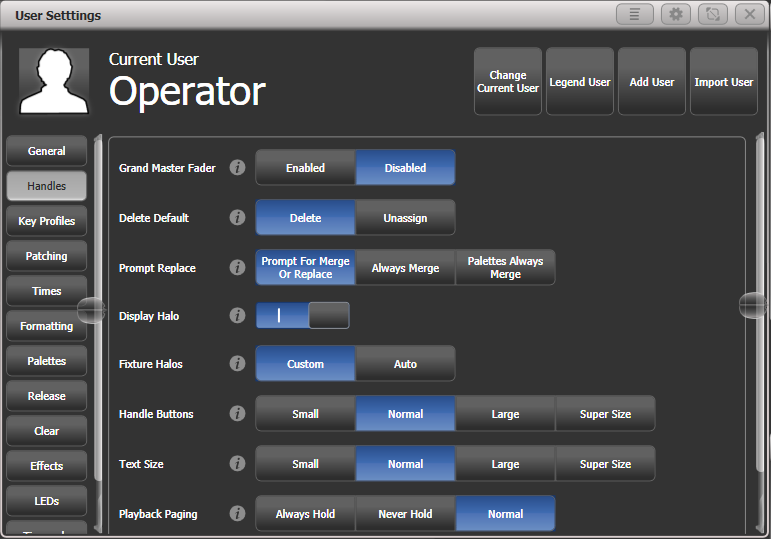
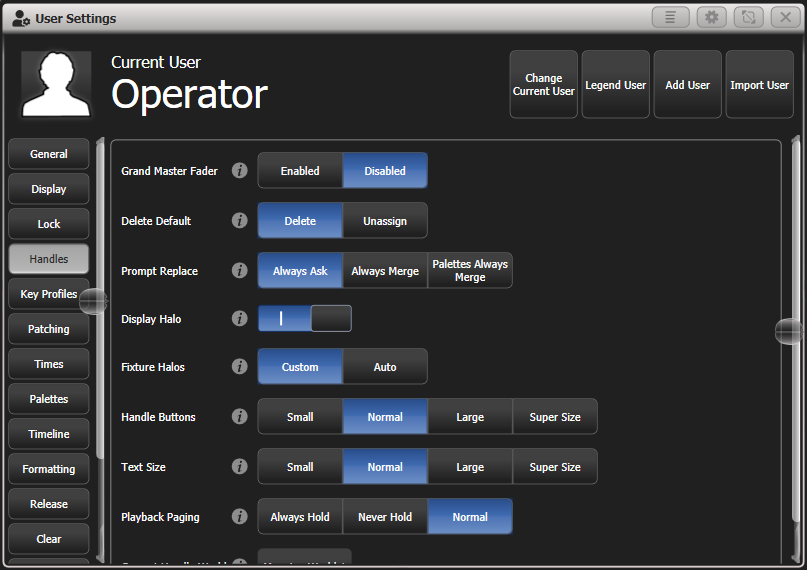
Update user settings to current

diff --git a/docs/system-settings/user-settings.md b/docs/system-settings/user-settings.md
@@ -40,9 +40,22 @@ System Render Rate (Hz) | Sets the output rate of DMX frames from 1-44 frames pe
 ---|------
 External Display                    | ***On:*** External display is enabled <br/> *Off:* External display is disabled.
 External Screen Workspace Shortcuts | ***On:*** Each screen has its own Workspace Shortcut buttons (shown down the side of the screen on external screens). This allows you to recall different window layouts separately on each screen rather than changing all screens. <br/>*Off:* The Workspace buttons on the main screen control all screens.
-Lock Screen Background              | Sets a picture to be displayed when the console is locked.
+Virtual Hardware                    | ***Auto:*** Titan Go will automatically hide the virtual control buttons if a Titan Mobile is connected <br/> *Enabled:* The virtual control buttons are always shown <br/> *Disabled:* The virtual control buttons are always hidden.
+Fullscreen Mode                     | *On:* The Titan Go application will be displayed fullscreen <br/> ***Off:*** The Titan Go application will be displayed in a window.
 
 -  These options can also be set from **System** menu, in the **Display Setup** option.
+-  You can also press F11 to change the Titan Go application to full screen display.
+
+## Lock
+
+ Option            | Action  
+---|------
+Lock Screen Background              | Sets a picture to be displayed when the console is locked.
+Venue Mode Workspace                | Selects workspace (from softkeys) to be used when console is locked.
+Venue Mode Password                 | If set, allows staff to unlock the console into Venue Mode from fully locked
+Programmer Password                 | If set, fully unlocks the console. "68340" will also always unlock the console.
+Lock on Startup                     | ***Shutdown state:*** Console will start up in the lock state it was in when shut down. <br/> *Locked:* Console will always start up fully locked <br/> *Venue Mode Workspace:* Console will start up showing Venue Mode workspace.
+
 
 
 ## Handles
@@ -83,13 +96,6 @@ Times Format                     | Selects between ***HH:MM:SS*** format and *Se
 Compensate for Rate Grand Master | ***On:*** When a tempo is tapped on a BPM master it will not be affected by the Rate Grand Master being set to less than 100%.<br/>*Off:* Tempo will be scaled by Rate Grand Master.
 
 
-## Formatting
-
- Option        | Action  
----|------
-Channel Levels | Sets how you enter channel levels when using numeric entry of levels<br/> *Set In Tens:* enter one digit for the channel level, 5 = 50%.<br/>***Set in Units:*** enter two digits, 50 = 50%.
-Number Style   | Sets how channel values are displayed in Cue View and Palette View. <br/> *Precise:* will include all decimal places.<br/>*Rounded:* round to nearest whole number.<br/>***Dynamic:*** show decimals where appropriate, remove trailing zeros.
-
 ## Palettes
 
  Option                   | Action  
@@ -104,6 +110,25 @@ Master Palette Time       | Sets the default fade time to be used when recalling
 Master Palette Overlap    | Sets the default overlap to be used when fading palettes.
 Record Nested Palettes    | ***On:*** Palettes containing other source palettes will be updated when you change the source palette.<br/>*Off:* Nested palettes are not updated.<br/>See [Nested Palettes](../palettes/creating-palettes.md#nested-palettes) for more detail.
 Preset Palettes           | This is the same as the option in the Patching section, [see above](#patching).
+
+
+## Timeline
+
+ Option                   | Action  
+---|------
+Default Playback Length   | Sets the default duration of a playback when first added to the timeline.
+Timeline Skip Length      | Sets the amount of time the "skip forward" and "skip back" actions will jump by.
+Display Frame Rate        | The framerate to be used for displaying timecode time. ***"Follow Source"*** sets the framerate to match the incoming timecode source. 
+Auto-Simplify             | ***On:*** Triggers will be automatically simplified after a live record <br/>*Off:* Triggers will not be simplified. <br/>See [Auto Simplify](../timelines/creating-a-timeline.md#auto-simplify) for more detail.
+Auto-Open View            | *None:* No view will be opened when recording a new timeline <br/> ***Timeline:*** The timeline graphical window will open <br/>*Timeline and Table:* The graphical and table view windows will both open.
+
+## Formatting
+
+ Option        | Action  
+---|------
+Channel Levels | Sets how you enter channel levels when using numeric entry of levels<br/> *Set In Tens:* enter one digit for the channel level, 5 = 50%.<br/>***Set in Units:*** enter two digits, 50 = 50%.
+Number Style   | Sets how channel values are displayed in Cue View and Palette View. <br/> *Precise:* will include all decimal places.<br/>*Rounded:* round to nearest whole number.<br/>***Dynamic:*** show decimals where appropriate, remove trailing zeros.
+
 
 ## Release
 
@@ -132,13 +157,6 @@ Action Precedence          | Sets a two-stage action for presses of the Clear bu
 
 -  These settings can also be changed from the Clear menu if you hold down the <Keys.HardKey>Clear</Keys.HardKey> button.
 
-## Effects
-
- Option         | Action  
----|------
-Swop Shapes     | Sets how shapes react to another playback being fired in Swop mode.<br/>***All Shapes:*** All running shapes from other playbacks are stopped.<br/>*Intensity Shapes:* Only intensity shapes from other playbacks stop.
-Shape Behaviour | Sets how Key Frame Shapes combine with other playbacks.<br/>***Overlay:*** Key Frame Shapes will overlay all other values.<br/>*LTP:* Key Frame Shapes will work in LTP mode where later changes will override the shape.<br/>See [Saving a key frame shape to a cue](../effects/key-frame-shapes.md#saving-a-key-frame-shape-to-a-cue).
-
 ## LEDs
 
  Option              | Action  
@@ -148,6 +166,14 @@ LED Empty Level      | Sets level for unpatched handle.
 LED Occupied Level   | Sets level for occupied but unselected handle.
 LED Programmer Level | Level if fixture is in the programmer.
 LED Selected Level   | Level if fixture is selected.
+
+## Effects
+
+ Option         | Action  
+---|------
+Swop Shapes     | Sets how shapes react to another playback being fired in Swop mode.<br/>***All Shapes:*** All running shapes from other playbacks are stopped.<br/>*Intensity Shapes:* Only intensity shapes from other playbacks stop.
+Shape Behaviour | Sets how Key Frame Shapes combine with other playbacks.<br/>***Overlay:*** Key Frame Shapes will overlay all other values.<br/>*LTP:* Key Frame Shapes will work in LTP mode where later changes will override the shape.<br/>See [Saving a key frame shape to a cue](../effects/key-frame-shapes.md#saving-a-key-frame-shape-to-a-cue).
+
 
 ## Timecode
 

diff --git a/docs/titan-basics/workspace-windows.md b/docs/titan-basics/workspace-windows.md
@@ -353,6 +353,14 @@ move to the main screen when this layout is set.
 - Workspace window(s) fill the full screen, no button/encoder legends
 shown.
 
+## Venue Mode Workspace
+
+You can designate a workspace to be displayed on the screen when the console is locked. This lets you provide a selection of playbacks on the lock screen, allowing basic controls for cleaners or bar staff when the lighting operator is not present. 
+
+You can also configure the console to power up in locked mode so you can ensure that staff can always access the venue mode playbacks even if the console was not powered on.
+
+See [Venue Mode Workspace](../running-the-show/using-multiple-on-screen-workspaces.md#fixture-button-halo).
+
 
 ## Compatibility Windows for Pearl Expert Shows
 
